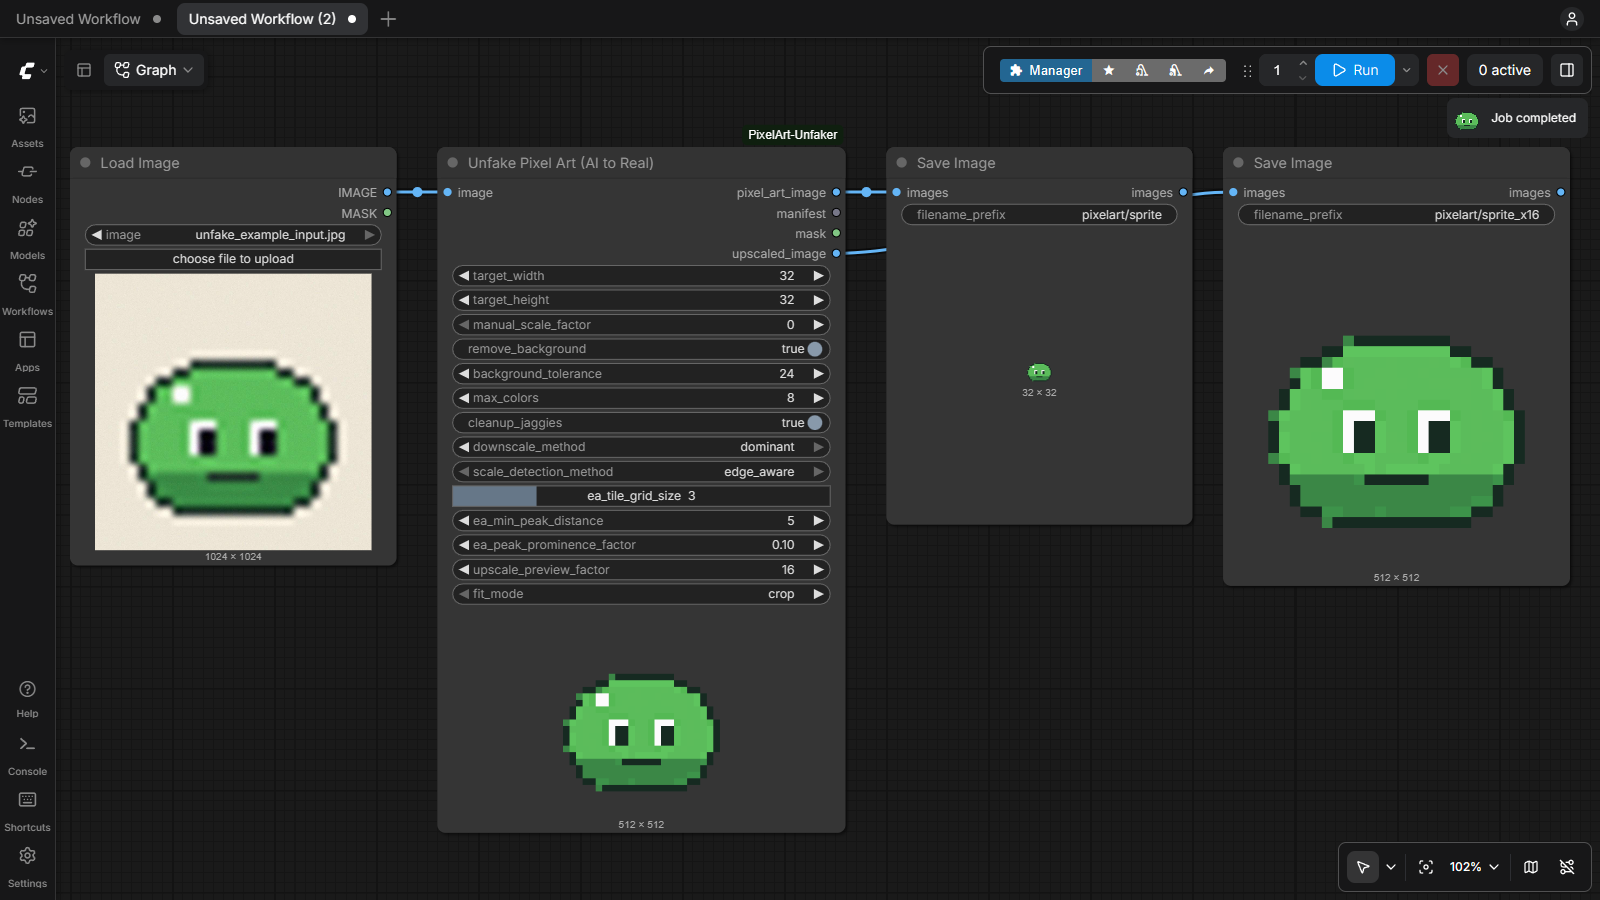
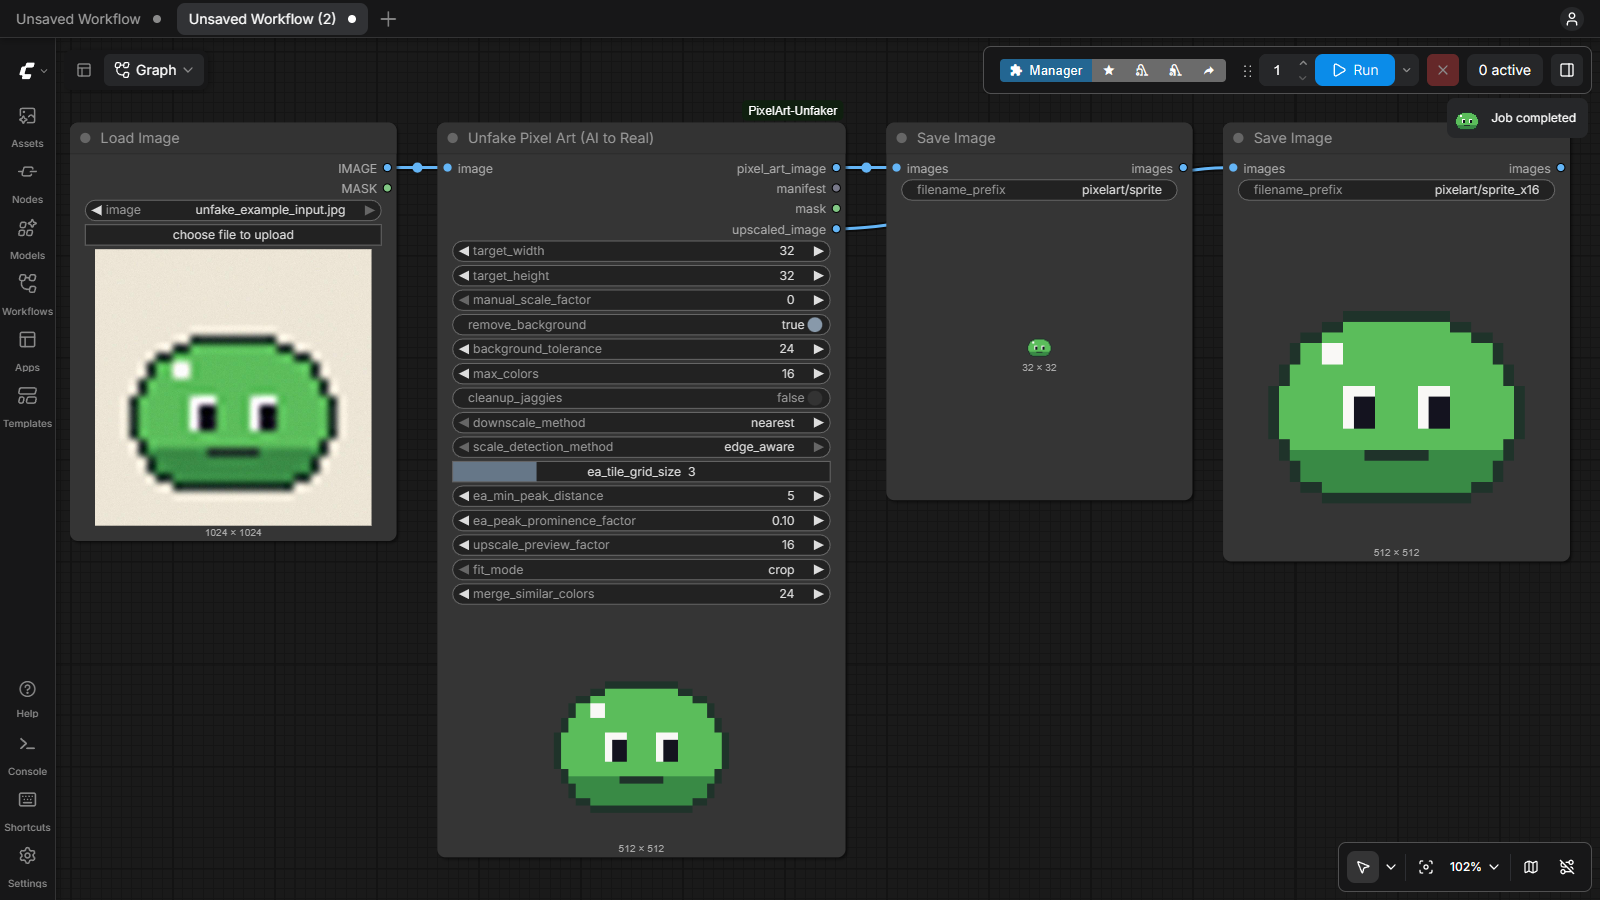
Merge similar colors, cleanup_jaggies off by default
AI noise made k-means spend palette slots on near-identical shades,
leaving flat areas speckled. The new merge_similar_colors option
(default 24) merges them; on the example sprite the output now matches
the original exactly. cleanup_jaggies is now off by default since it can
remove intentional 1-pixel details. Example workflow, before/after image,
screenshot and README updated accordingly.

diff --git a/unfake_core.py b/unfake_core.py
@@ -334,10 +334,30 @@ def _nearest_center(colors, centers, chunk=16384):
     return out
 
 
-def quantize(arr: np.ndarray, max_colors: int) -> tuple[np.ndarray, np.ndarray]:
+def _merge_close_colors(centers, weights, max_distance):
+    """Repeatedly merges the two closest colors (weighted mean) while closer than max_distance."""
+    centers, weights = centers.astype(np.float64).copy(), weights.astype(np.float64).copy()
+    while len(centers) > 1:
+        d = np.sqrt(np.maximum(_sq_distances(centers, centers), 0))
+        np.fill_diagonal(d, np.inf)
+        i, j = np.unravel_index(d.argmin(), d.shape)
+        if d[i, j] > max_distance:
+            break
+        total = weights[i] + weights[j]
+        centers[i] = (centers[i] * weights[i] + centers[j] * weights[j]) / total
+        weights[i] = total
+        centers, weights = np.delete(centers, j, axis=0), np.delete(weights, j)
+    return centers
+
+
+def quantize(
+    arr: np.ndarray, max_colors: int, merge_distance: float = 0
+) -> tuple[np.ndarray, np.ndarray]:
     """
     Reduces opaque pixels to at most `max_colors` colors (median cut + k-means)
     and binarizes alpha. Transparent pixels never consume palette entries.
+    Palette colors closer than `merge_distance` (RGB) are then merged, which
+    removes near-duplicate shades produced by noise.
     Returns (image, palette as (K, 3) uint8).
     """
     out = arr.copy()
@@ -351,20 +371,28 @@ def quantize(arr: np.ndarray, max_colors: int) -> tuple[np.ndarray, np.ndarray]:
 
     uniq, inverse, counts = np.unique(pixels, axis=0, return_inverse=True, return_counts=True)
     inverse = inverse.reshape(-1)
-    if max_colors <= 0 or len(uniq) <= max_colors:
+
+    if max_colors > 0 and len(uniq) > max_colors:
+        # Initial palette: Pillow median cut over the opaque pixels only
+        strip = Image.fromarray(np.ascontiguousarray(pixels.reshape(1, -1, 3)))
+        q = strip.quantize(colors=max_colors, method=Image.Quantize.MEDIANCUT, dither=Image.Dither.NONE)
+        n_used = int(np.asarray(q).max()) + 1
+        centers = np.array(q.getpalette()[: 3 * n_used], dtype=np.float64).reshape(-1, 3)
+
+        # Refine with k-means on (a sample of) the unique colors
+        fit_idx = np.arange(len(uniq))
+        if len(fit_idx) > 20000:
+            fit_idx = np.random.default_rng(0).choice(len(uniq), 20000, replace=False)
+        centers = _kmeans_refine(uniq[fit_idx], counts[fit_idx].astype(np.float64), centers)
+    elif merge_distance > 0 and len(uniq) <= 1024:
+        centers = uniq.astype(np.float64)
+    else:
         return out, uniq.astype(np.uint8)
 
-    # Initial palette: Pillow median cut over the opaque pixels only
-    strip = Image.fromarray(np.ascontiguousarray(pixels.reshape(1, -1, 3)))
-    q = strip.quantize(colors=max_colors, method=Image.Quantize.MEDIANCUT, dither=Image.Dither.NONE)
-    n_used = int(np.asarray(q).max()) + 1
-    centers = np.array(q.getpalette()[: 3 * n_used], dtype=np.float64).reshape(-1, 3)
-
-    # Refine with k-means on (a sample of) the unique colors
-    fit_idx = np.arange(len(uniq))
-    if len(fit_idx) > 20000:
-        fit_idx = np.random.default_rng(0).choice(len(uniq), 20000, replace=False)
-    centers = _kmeans_refine(uniq[fit_idx], counts[fit_idx].astype(np.float64), centers)
+    if merge_distance > 0:
+        weights = np.bincount(_nearest_center(uniq, centers), weights=counts, minlength=len(centers))
+        keep = weights > 0
+        centers = _merge_close_colors(centers[keep], weights[keep], merge_distance)
 
     palette = np.clip(np.round(centers), 0, 255).astype(np.uint8)
     mapped = palette[_nearest_center(uniq, palette)]
@@ -426,11 +454,12 @@ def unfake(
     remove_bg: bool = True,
     background_tolerance: int = 10,
     max_colors: int = 16,
-    cleanup: bool = True,
+    cleanup: bool = False,
     downscale_method: str = "nearest",
     tile_grid_size: int = 3,
     min_peak_distance: int = 5,
     peak_prominence_factor: float = 0.1,
+    merge_distance: float = 24,
 ) -> tuple[np.ndarray, dict]:
     """
     Runs the whole pipeline on one image. `arr` is (H, W, C) uint8.
@@ -483,7 +512,7 @@ def unfake(
         canvas[oy : oy + out_h, ox : ox + out_w] = result
         result = canvas
 
-    result, palette = quantize(result, max_colors)
+    result, palette = quantize(result, max_colors, merge_distance)
 
     if cleanup and (cell_w > 1 or cell_h > 1):
         result = cleanup_isolated_pixels(result)

diff --git a/__init__.py b/__init__.py
@@ -104,7 +104,7 @@ class UnfakePixelArtNode:
                 "cleanup_jaggies": (
                     "BOOLEAN",
                     {
-                        "default": True,
+                        "default": False,
                         "tooltip": "Replace isolated stray pixels with the color of their neighbors "
                         "(never adds new colors). May remove intentional 1-pixel details.",
                     },
@@ -173,6 +173,17 @@ class UnfakePixelArtNode:
                         "stretch: distort to fill.",
                     },
                 ),
+                "merge_similar_colors": (
+                    "INT",
+                    {
+                        "default": 24,
+                        "min": 0,
+                        "max": 100,
+                        "step": 1,
+                        "tooltip": "Merge palette colors closer than this RGB distance. Removes the near-identical "
+                        "shades that AI noise creates (speckled areas). Lower it if you lose subtle shading; 0 = off.",
+                    },
+                ),
             },
         }
 
@@ -204,6 +215,7 @@ class UnfakePixelArtNode:
         ea_peak_prominence_factor: float,
         upscale_preview_factor: int,
         fit_mode: str = "crop",
+        merge_similar_colors: int = 24,
     ):
         start_time = time.time()
         frames = (image.detach().cpu().clamp(0, 1).numpy() * 255).round().astype(np.uint8)
@@ -226,6 +238,7 @@ class UnfakePixelArtNode:
                 tile_grid_size=ea_tile_grid_size,
                 min_peak_distance=ea_min_peak_distance,
                 peak_prominence_factor=ea_peak_prominence_factor,
+                merge_distance=merge_similar_colors,
             )
             # Reuse the first frame's detected scale so a batch (e.g. animation frames) stays consistent
             if i == 0 and not has_target and scale <= 0:

diff --git a/README.md b/README.md
@@ -13,7 +13,8 @@ Based on the algorithm from [unfake.js](https://github.com/jenissimo/unfake.js) 
 * **Edge-Aware Scale Detection**: Leave the target size at `0` to auto-detect the pixel size of clean, upscaled pixel art.
 * **Smart Background Removal**: Detects the background color from the image border and removes only the regions connected to it, so similar colors inside the sprite are kept.
 * **Color Quantization**: Reduces the palette (median cut + k-means). Transparent pixels never waste palette slots.
-* **Stray Pixel Cleanup**: Removes isolated noise pixels without introducing new colors.
+* **Similar Color Merging**: Merges the near-identical shades that AI noise creates, so flat areas come out flat instead of speckled.
+* **Optional Stray Pixel Cleanup**: Removes isolated noise pixels without introducing new colors (off by default).
 * **Batch Support**: Process animation frames in one go. The pixel size detected on the first frame is reused for the rest.
 * **Ready-to-save outputs**: Real-size image (with alpha), a nearest-neighbor upscaled copy, the transparency mask and a JSON manifest with the detected grid and palette.
 
@@ -47,8 +48,9 @@ It also works right after a KSampler / VAE Decode: plug the decoded image into t
 
 * **Which target size?** Count the "big pixels" across the AI image (or guess: most AI pixel art is drawn as 32, 48, 64 or 128 pixels wide) and use that as `target_width`. Set `target_height` to `0` to keep the aspect ratio.
 * **Leftover background** around the sprite: raise `background_tolerance` (20–40 for noisy / JPEG images).
-* **Blotchy colors**: use `downscale_method = dominant`.
-* **Missing 1-pixel details** (eyes, highlights): turn off `cleanup_jaggies`.
+* **Speckled / blotchy areas**: raise `merge_similar_colors` (30–40). If subtle shading disappears, lower it.
+* **Still noisy**: try `downscale_method = dominant`.
+* **`cleanup_jaggies`** is off by default because it can remove intentional 1-pixel details (eyes, highlights). Turn it on only if there are lone stray pixels left.
 * **No target size at all**: set both targets to `0` (auto-detect) or set `manual_scale_factor` to the size of one art pixel. Auto-detection works on integer upscales; for AI images, a target size is more reliable.
 
 ## How it works
@@ -57,8 +59,8 @@ It also works right after a KSampler / VAE Decode: plug the decoded image into t
 2. **Grid size**: taken from the target size, from `manual_scale_factor`, or auto-detected from the spacing of the edges in the image.
 3. **Grid alignment**: the grid is shifted so its lines fall on the edges of the art.
 4. **Downscale**: one output pixel per grid cell (`nearest` or `dominant` color).
-5. **Quantization**: the opaque pixels are reduced to `max_colors` colors.
-6. **Cleanup**: isolated stray pixels are replaced with the color of their neighbors.
+5. **Quantization**: the opaque pixels are reduced to at most `max_colors` colors, then near-identical colors are merged.
+6. **Cleanup** (optional): isolated stray pixels are replaced with the color of their neighbors.
 
 ## Node Parameters
 
@@ -68,12 +70,13 @@ It also works right after a KSampler / VAE Decode: plug the decoded image into t
 | `manual_scale_factor` | Size of one art pixel in input pixels (e.g. `16` turns 1024 into 64). `0` = auto-detect. |
 | `remove_background` | Make the border-connected background transparent. |
 | `background_tolerance` | Max per-channel difference (0–255) from the background color. |
-| `max_colors` | Palette size. `0` = keep all colors. |
-| `cleanup_jaggies` | Replace isolated stray pixels with their neighbors' color. |
-| `downscale_method` | `nearest`: center pixel of each cell (crisp). `dominant`: most common color of each cell (robust to noise). |
+| `max_colors` | Maximum palette size. `0` = keep all colors. |
+| `cleanup_jaggies` | Replace isolated stray pixels with their neighbors' color. Off by default. |
+| `downscale_method` | `nearest`: center pixel of each cell (cleanest in most cases). `dominant`: most common color of each cell (for very noisy images). |
 | `scale_detection_method`, `ea_*` | Tuning for auto-detection (tile grid, minimum edge distance, edge strength). |
 | `upscale_preview_factor` | Upscale for the node preview and the `upscaled_image` output (capped at 4096px). |
 | `fit_mode` | When the aspect ratio differs from the target: `crop` (fill and cut), `pad` (fit with transparent borders) or `stretch`. |
+| `merge_similar_colors` | Merge palette colors closer than this RGB distance (default `24`). Removes noise shades; `0` = off. |
 
 ### Outputs
 
@@ -91,7 +94,8 @@ It also works right after a KSampler / VAE Decode: plug the decoded image into t
 * Exact target sizes without stretching, new `fit_mode` (crop / pad / stretch).
 * Batch support, new `mask` and `upscaled_image` outputs, JSON manifest.
 * Better grid alignment, background removal and `dominant` downscale on noisy AI images.
-* Quantization ignores transparent pixels; cleanup never adds new colors.
+* Quantization ignores transparent pixels; new `merge_similar_colors` removes noise shades.
+* `cleanup_jaggies` is now off by default and never adds new colors.
 * No more scikit-learn dependency; much faster processing.
 
 **1.0.0**
